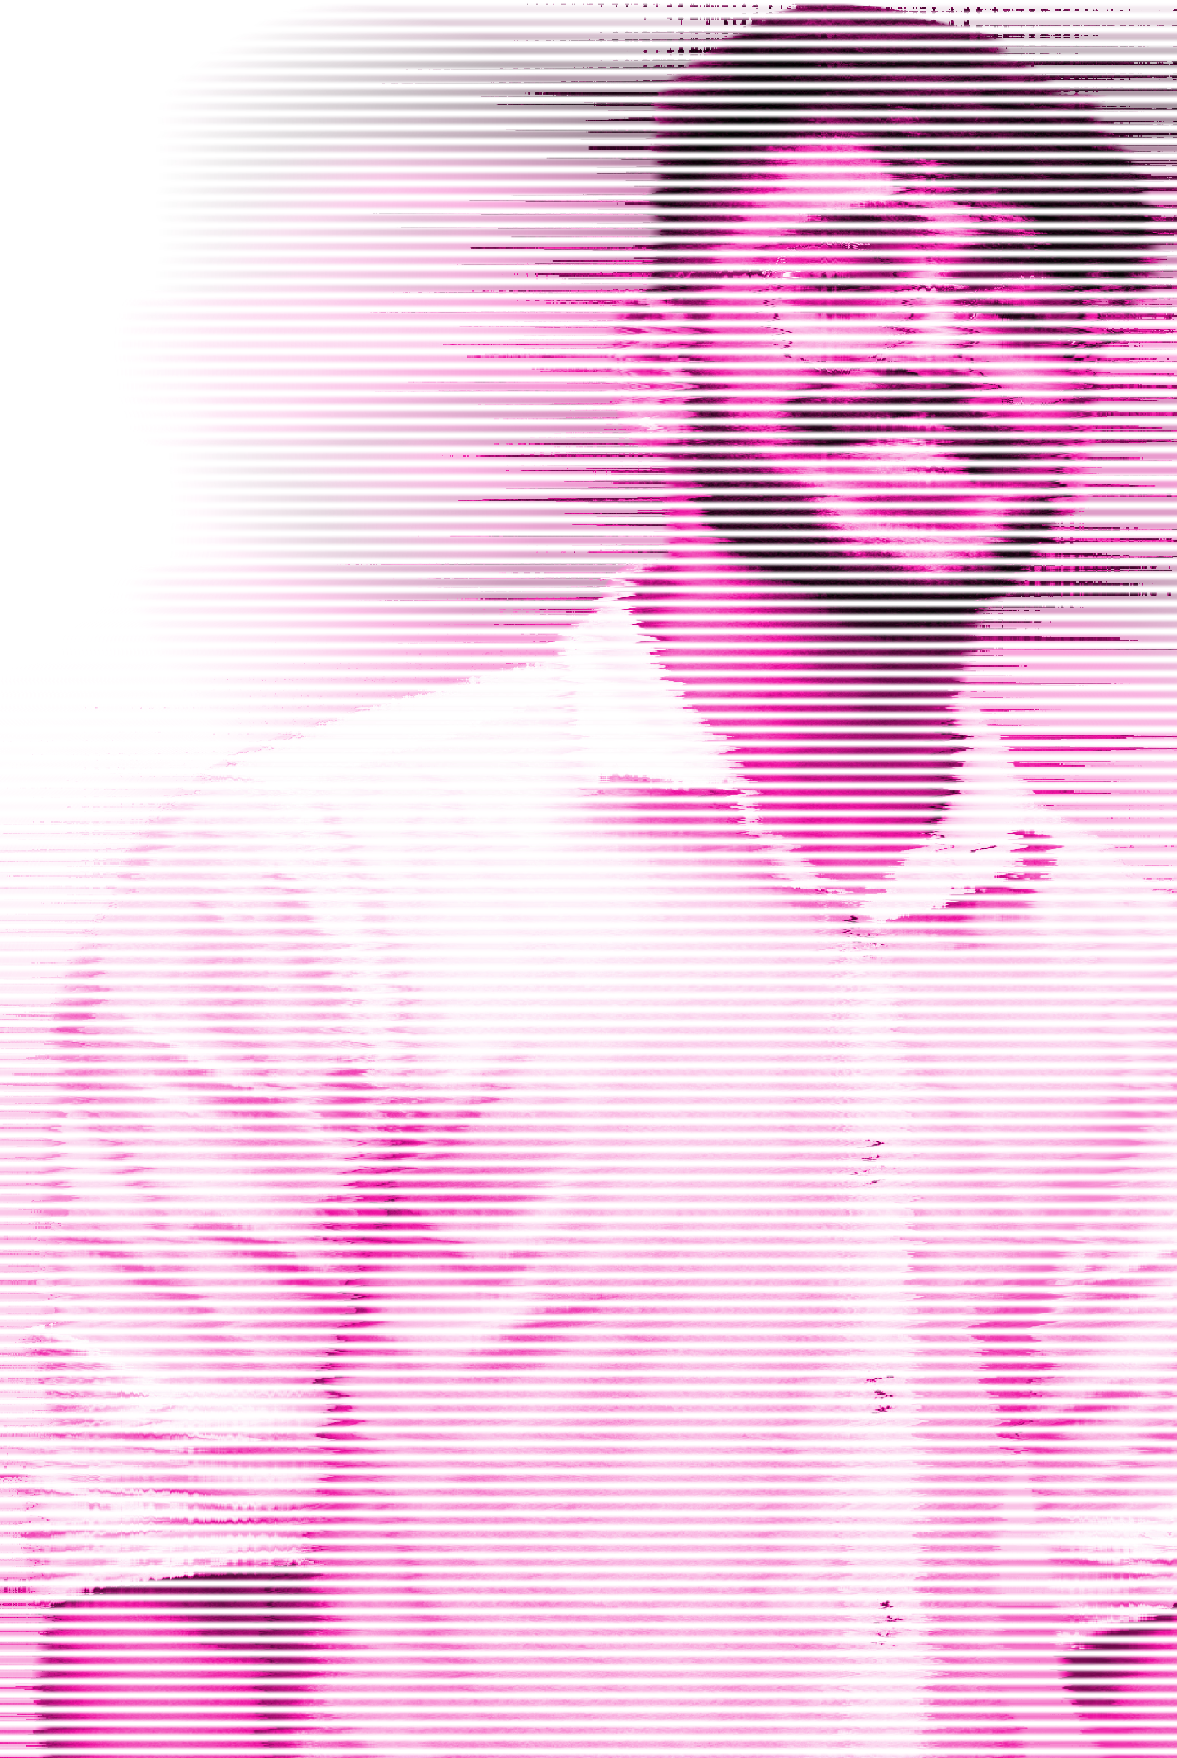
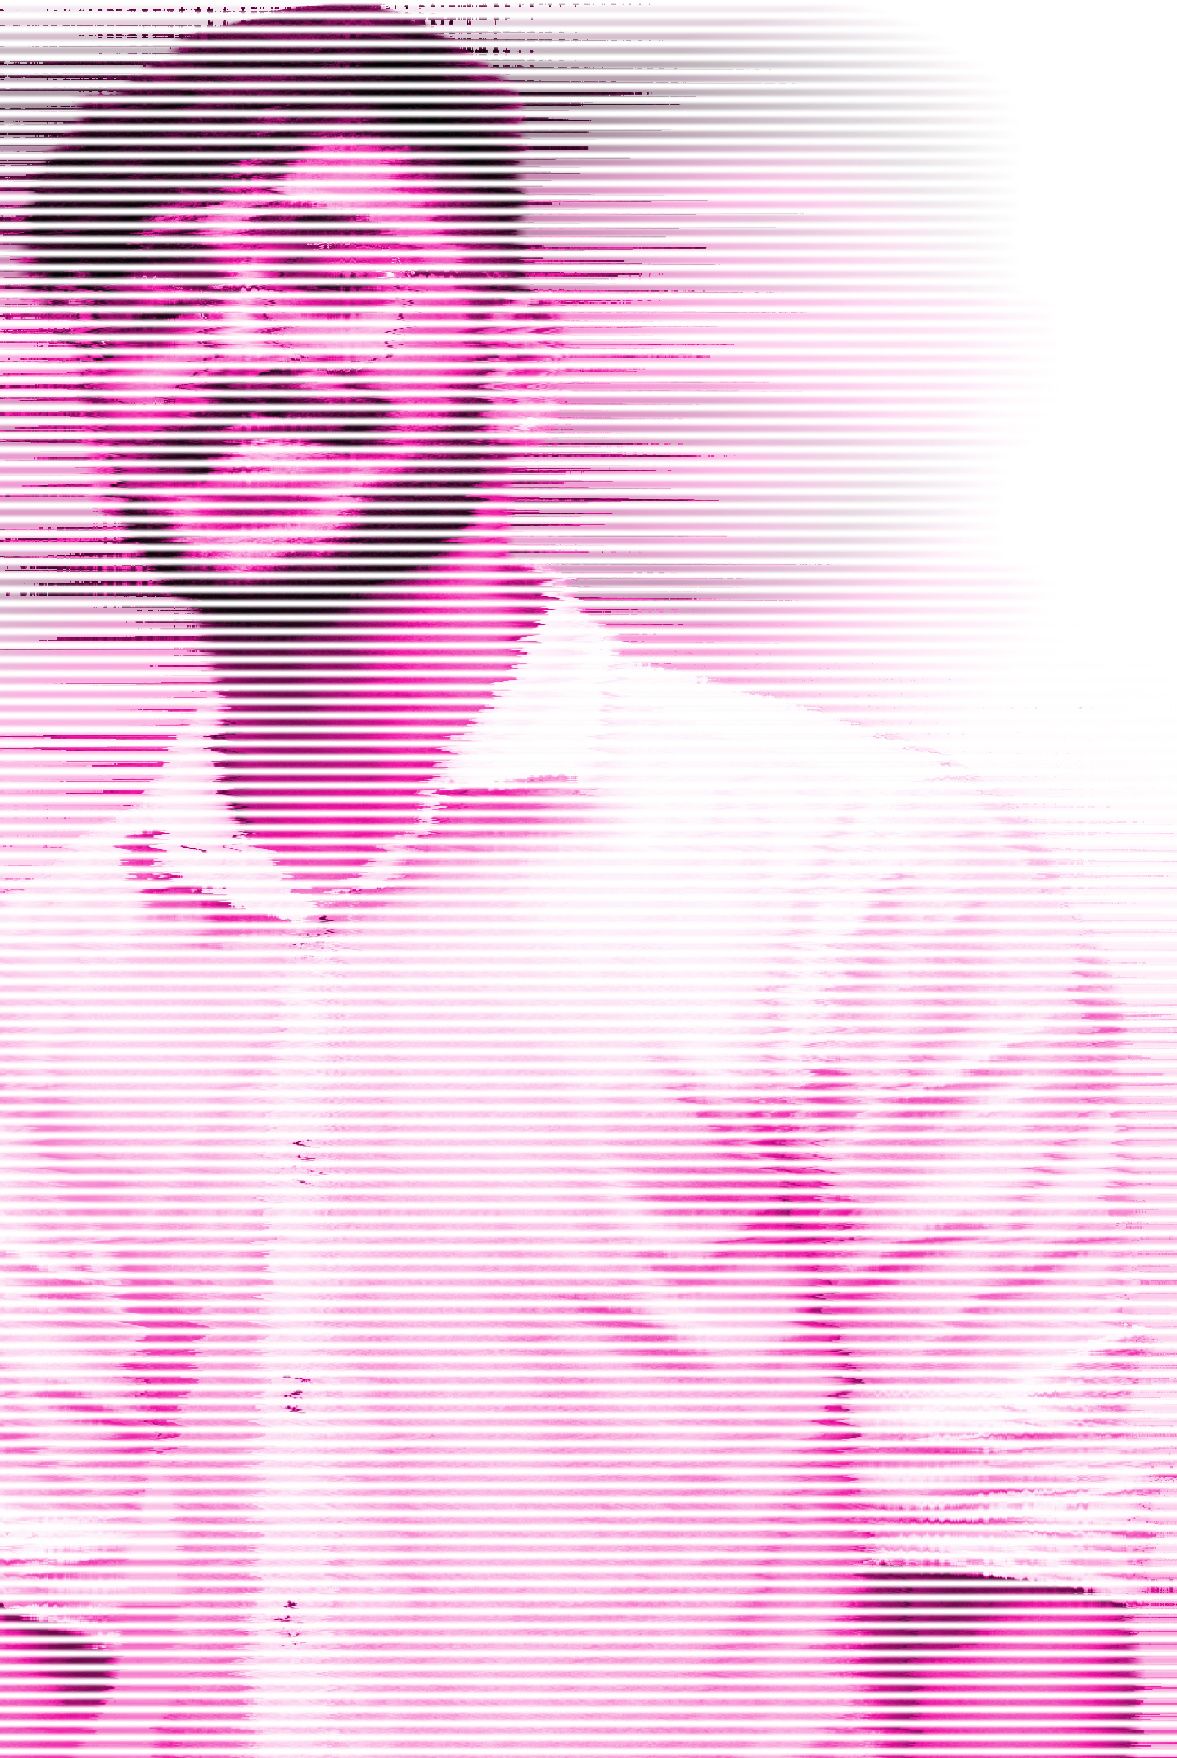
Ajustes Home Page

diff --git a/style.css b/style.css
@@ -120,9 +120,9 @@ body{
     top: 0%;
     left: 0%;
     width: 100%;
-    height: 100%;
+    height: 200%;
     background: url('./imgs/rain.png');
-    animation: rain 4s linear infinite;
+    animation: rain 8s linear infinite;
   
 
 
@@ -135,7 +135,7 @@ header{
     0px 0px 15px rgb(255, 0, 255),
     0px 0px 20px rgb(230, 78, 230);
     font-size: 20pt;
-    margin-top: 3%;
+    margin-top: 2%;
     font-family: 'Cyber3';
     font-weight: 1000;
    
@@ -160,6 +160,10 @@ ul{
         animation: piscar 0.2s linear forwards;
         
 }
+.op a{
+    text-decoration: none;
+    color: #ffffff;
+}
 hr{
     
     height: 100px;
@@ -183,7 +187,7 @@ hr::after{
 section{
 
     width: 90%;
-    height: 75%;
+    height: 32.rem;
     backdrop-filter: blur(7px) saturate(150%);
     -webkit-backdrop-filter: blur(10px) saturate(150%);
     background-color: rgba(255, 255, 255, 0);
@@ -194,16 +198,18 @@ section{
     animation: gira 1s infinite ;
     padding-bottom: 2%;
     margin-bottom: 5%;
+
+    
    
 }
 .player{
    position: absolute;
-   right: 4%;
+   right: 5%;
    top:2%;
 }
 .player img{
-    width: 3rem; 
-    height: 3rem;
+    width: 2rem; 
+    height: 2rem;
     position: relative;
     left: 100%;
     transition: 0.2s;
@@ -217,20 +223,23 @@ section{
 
 #s1{
 
-    width: 30%;
+    width: 20%;
     height: 50%;
-    margin-top: 10%;
+    margin-top: 5%;
+    order: 1;
+    padding-right: 5%;
 }
 .menu img{
     position: relative;
-    left: 50%;
+    left: 40%;
     transform: translateX(-50%);
     width: 17rem;
     height:25rem;
     border-radius: 15pt;
     filter: drop-shadow(1px 1px 10px rgba(0, 140, 255, 0.459));
-    
- 
+    animation: piscar 0.3s 4s linear forwards ;
+   
+     
     
 }
 #s2{
@@ -243,35 +252,78 @@ section{
     0 0 12px #662959
     ;
    
-    width:70%;
+    width:60%;
     height: 50%;
-    margin-top: 10%;
+    margin-top: 5%;
+    margin-left: 5%;
 
 }
 #s2 h1{
     animation: piscar 0.3s 1s linear forwards  ;
     font-size: 45pt;
-    margin-left: 5%;
+
+    margin-top: -5%;
 }
 
 
 #s2 h2{
     font-family: 'Cyber2';
     font-size: 25pt;
-    width: 50%;
+    width: 65%;
     color: rgb(255, 255, 255);
     text-shadow: 0px 0 5px cyan,
     0px 0 10px cyan,
     0px 0 15px cyan;
-    margin-left: 5%;
+    margin-left: 2%;
 }
 
 .menu img:hover{
     cursor: pointer;
-    animation: piscar 0.3s  linear forwards ;
+
 }
 
 section#bloco2{
     margin-top: 5%;
-    height: 6rem;
+    height: 25rem;
+    display: block;
+    font-family: 'Cyber1';
+    color: #ffffff;
+    text-shadow:0 0 2px #f179d7,
+    0 0 2px #f179d7,
+    0 0 5px #f399df,
+    0 0 10px #a0518f,
+    0 0 12px #662959
+    ;
+    
+    padding: 5%;
+
+}
+#bloco2 h2{
+    font-size: 25pt;
+}
+
+#s3{
+    order: -1;
+    width: 20%;
+}
+
+.gif{
+      
+    width: 15rem;
+    height: 15rem;
+    position: relative;
+    top:7% ;
+    margin-right: 5%;
+    margin-left: 12%;
+    filter: hue-rotate('180deg');
+    filter: drop-shadow(0px 0px 10px cyan);
+
+}
+#pc{
+   
+     position: relative;
+     width: 15rem;
+     height: 15rem;
+     top: 10%;
+     filter: drop-shadow(0px 0px 10px rgb(250, 3, 147));
 }

diff --git a/index.html b/index.html
@@ -23,8 +23,8 @@
             <header>  
 
                 <ul>    
-                    <li class="op">
-                                         Home
+                    <li class="op" > <a href="index.html"> Home</a>
+                                        
                     </li>
                     <li class="op">
                         Sobre
@@ -76,7 +76,13 @@
 
                         
                     </h2>
+                   
                     
+                </div>
+                <div id="s3" >
+                    <img id="pc"  src="./imgs/pc.gif" alt="" srcset="">
+                    <img class="gif" src="./imgs/death-skelly-unscreen.gif" alt="" srcset="">
+               
                 </div>
 
 
@@ -84,6 +90,17 @@
                         
             </section> 
             <section id="bloco2">
+
+                <h2>A minha jornada</h2>
+                <p>
+                    Lorem ipsum dolor sit amet consectetur adipisicing elit. In molestiae tempore vero, quo eligendi ullam animi possimus itaque quibusdam! Sint, laudantium! Ex maiores ea, hic vero iste eius eum voluptate!
+                    Lorem ipsum dolor, sit amet consectetur adipisicing elit. Quisquam dolorem ex quia, nemo aliquid provident magnam excepturi saepe impedit omnis unde doloremque rem nulla nobis fuga soluta qui! Corrupti, deleniti?
+                    Lorem, ipsum dolor sit amet consectetur adipisicing elit. Tempore vel, eum perspiciatis modi dolorum ratione accusamus aliquam cum sunt saepe totam, suscipit molestiae quo perferendis libero repudiandae nam incidunt dicta.
+                    Lorem ipsum dolor sit amet consectetur, adipisicing elit. Expedita officiis vitae ipsa harum odio accusamus deleniti, a at soluta atque, distinctio earum nemo, magni libero! Vel tempora magni nesciunt doloribus.
+                    Lorem ipsum dolor sit amet consectetur adipisicing elit. Voluptatem nobis accusantium ex molestiae atque. Sequi a aspernatur sed itaque nesciunt eos vel voluptates, possimus ea veritatis voluptas numquam assumenda reiciendis.
+                </p>
+
+
 
 
             </section>

diff --git a/script.js b/script.js
@@ -1,5 +1,6 @@
 const saida = document.querySelector('#digitos')
 const player = document.querySelector("#player")
+var mute = "false"
 
 
 function digitacao(texto, contador){
@@ -39,13 +40,35 @@ digitacao('Aqui voce encontra todas as ideias virtuais de Ariston Candido e por 
 
 player.addEventListener('click',()=>{
 
-    const src = document.querySelector('audio');
-    const icone = document.querySelector("#player");
-    icone.src = './imgs/mute.png'
+    if(mute=="false"){
 
 
 
-    src.src = "";
+        const src = document.querySelector('audio');
+        const icone = document.querySelector("#player");
+        icone.src = './imgs/mute.png'
+    
+    
+    
+        src.src = "";
+        mute="true"
+    
+    }else{
+
+
+
+        const src = document.querySelector('audio');
+        const icone = document.querySelector("#player");
+        icone.src = './imgs/som.png';
+
+        src.src = "./audios/Barulho de chuva.mp3"
+        mute="false"
+
+
+    }
+
+  
+
 
 });
 
